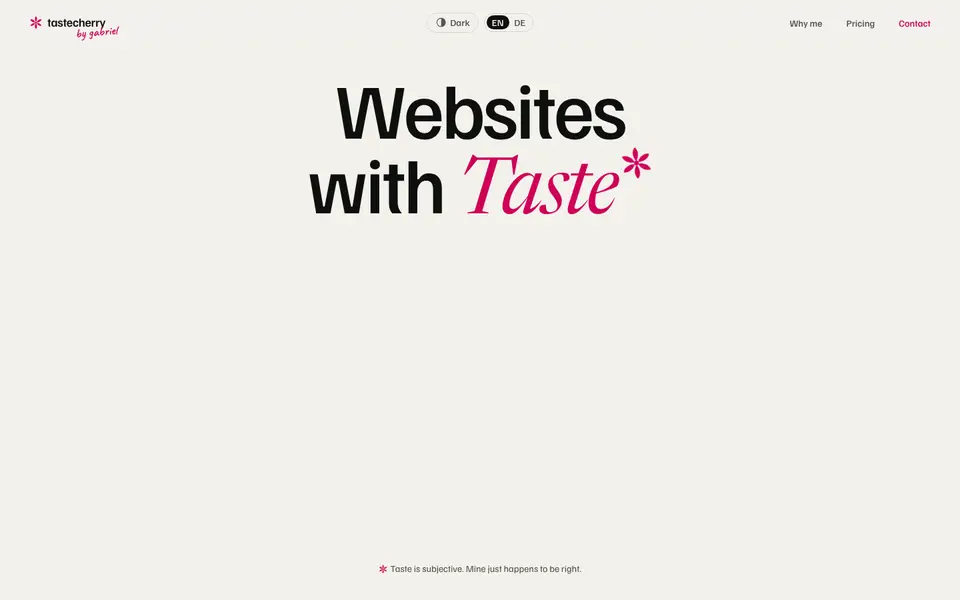
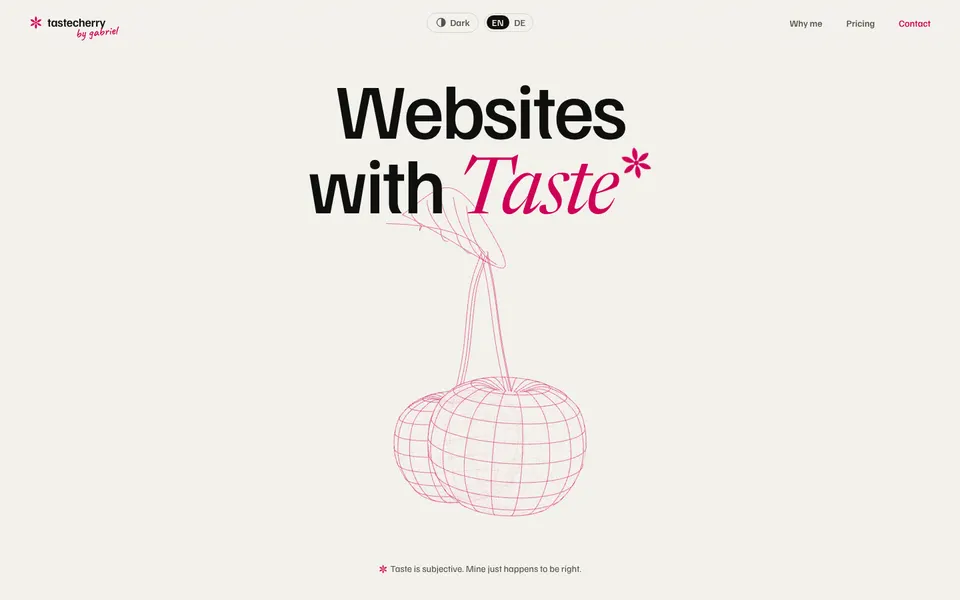
Landing page: screenshots inside the project rows, smooth scrolling
- Each project row holds its screenshot: grey and dimmed at rest, the
  colour wipes in with the blue row on hover (replaces the cursor preview)
- Names scale with their own column, so they never run into the screenshot
- Stacked layout on tablets, single column on phones
- Header links and "Things I built" scroll smoothly (off with reduced motion)
- New tastecherry and Chess Companion screenshots with their 3D scenes

Claude-Session: https://claude.ai/code/session_01FqocVGTXWJxat8kcUEaMd8

Changed region(s): [[0.4062, 0.42, 0.625, 0.87], [0.4062, 0.33, 0.5, 0.42], [0.6562, 0.24, 0.6875, 0.3]]

diff --git a/index.html b/index.html
@@ -44,7 +44,7 @@
   }
   * { box-sizing: border-box; }
   [hidden] { display: none !important; }
-  html { -webkit-text-size-adjust: 100%; }
+  html { -webkit-text-size-adjust: 100%; scroll-behavior: smooth; }
   body {
     margin: 0;
     min-height: 100vh;
@@ -182,7 +182,7 @@
     color: var(--muted); background: none; border: 0; cursor: pointer; text-decoration: underline;
   }
 
-  @media (prefers-reduced-motion: reduce) { * { transition: none !important; animation: none !important; } }
+  @media (prefers-reduced-motion: reduce) { html { scroll-behavior: auto; } * { transition: none !important; animation: none !important; } }
   /* ---------- below the hero ---------- */
   body { background: #000; }
   .below {
@@ -225,20 +225,32 @@
   /* ---------- projects and elsewhere: index rows ---------- */
   .ix-row {
     position: relative; z-index: 1; isolation: isolate; overflow: hidden;
-    display: grid; grid-template-columns: minmax(0, 1fr) minmax(0, 30ch) 14ch 32px; align-items: center; gap: 32px;
-    padding: 26px var(--pad); border-bottom: 1px solid var(--line);
+    display: grid; align-items: center; gap: 0 28px;
+    grid-template-columns: minmax(0, 1fr) clamp(170px, 16vw, 250px) minmax(0, 24ch) 12ch 28px;
+    grid-template-areas: "name thumb desc type arrow";
+    padding: 24px var(--pad); border-bottom: 1px solid var(--line);
     color: var(--ink); text-decoration: none; transition: color .35s .05s;
   }
   .ix-row::before {
     content: ""; position: absolute; inset: 0; z-index: -1; background: var(--blue);
     clip-path: inset(0 100% 0 0); transition: clip-path .6s cubic-bezier(.7, 0, .2, 1);
   }
-  .ix-name { font-weight: 900; font-stretch: 62%; text-transform: uppercase; font-size: clamp(48px, 9vw, 140px); line-height: .82; letter-spacing: -.01em; }
-  .ix-desc { font-size: 15px; line-height: 1.45; color: var(--dim); transition: color .35s .05s; }
-  .ix-type { font-weight: 600; font-size: 12px; letter-spacing: .08em; text-transform: uppercase; color: #6d6d6d; text-align: right; transition: color .35s .05s; }
-  .ix-arrow { font-size: 28px; line-height: 1; text-align: right; transition: transform .4s cubic-bezier(.2, .7, .1, 1); }
+  /* the name scales with its own column (cqi), so it never runs into the screenshot */
+  .ix-name { grid-area: name; container-type: inline-size; font-weight: 900; font-stretch: 62%; text-transform: uppercase; line-height: .82; letter-spacing: -.01em; }
+  .ix-name span { display: block; font-size: min(120px, 7.2vw, 17.5cqi); }
+  .ix-desc { grid-area: desc; font-size: 15px; line-height: 1.45; color: var(--dim); transition: color .35s .05s; }
+  .ix-type { grid-area: type; font-weight: 600; font-size: 12px; letter-spacing: .08em; text-transform: uppercase; color: #6d6d6d; text-align: right; transition: color .35s .05s; }
+  .ix-arrow { grid-area: arrow; font-size: 28px; line-height: 1; text-align: right; transition: transform .4s cubic-bezier(.2, .7, .1, 1); }
   .ix-row.out .ix-name { color: transparent; -webkit-text-stroke: 1.5px var(--ink); transition: -webkit-text-stroke-color .35s .05s; }
-  .ix-thumb { display: none; }
+
+  /* screenshot: grey and dimmed until hovered, then the colour wipes in with the row */
+  .ix-thumb { grid-area: thumb; position: relative; display: block; aspect-ratio: 16 / 10; overflow: hidden; border: 1px solid #262626; transition: border-color .35s .05s; }
+  .ix-thumb img { width: 100%; height: 100%; object-fit: cover; object-position: top; display: block; transition: transform .9s cubic-bezier(.2, .7, .1, 1); }
+  .ix-thumb::after {
+    content: ""; position: absolute; inset: 0; background: rgba(0, 0, 0, .45);
+    -webkit-backdrop-filter: grayscale(1); backdrop-filter: grayscale(1);
+    clip-path: inset(0 0 0 0); transition: clip-path .6s cubic-bezier(.7, 0, .2, 1);
+  }
 
   @media (hover: hover) {
     .ix-row:hover { color: #000; }
@@ -246,25 +258,29 @@
     .ix-row:hover .ix-desc, .ix-row:hover .ix-type { color: rgba(0, 0, 0, .75); }
     .ix-row:hover .ix-arrow { transform: translateX(8px); }
     .ix-row.out:hover .ix-name { -webkit-text-stroke-color: #000; }
+    .ix-row:hover .ix-thumb { border-color: #000; }
+    .ix-row:hover .ix-thumb::after { clip-path: inset(0 0 0 100%); }
+    .ix-row:hover .ix-thumb img { transform: scale(1.05); }
   }
 
-  /* preview that follows the cursor */
-  .ix-float {
-    position: fixed; left: 0; top: 0; z-index: 30; pointer-events: none;
-    width: clamp(260px, 26vw, 420px); aspect-ratio: 16 / 10; overflow: hidden;
-    border: 1px solid rgba(0, 0, 0, .9); box-shadow: 0 30px 80px -20px rgba(0, 0, 0, .8);
-    opacity: 0; transition: opacity .25s;
-  }
-  .ix-float.show { opacity: 1; }
-  .ix-float img { width: 100%; height: 100%; object-fit: cover; object-position: top; display: block; }
-
-  @media (max-width: 720px) {
-    .ix-row { grid-template-columns: 1fr; gap: 10px; padding: 22px var(--pad); }
-    .ix-name { font-size: 14vw; }
-    .ix-type { order: -1; text-align: left; }
+  /* tablets: type, name and description stacked beside the screenshot */
+  @media (max-width: 1000px) {
+    .ix-row {
+      grid-template-columns: minmax(0, 1fr) clamp(170px, 30vw, 260px);
+      grid-template-areas: "type thumb" "name thumb" "desc thumb";
+      gap: 10px 24px; align-items: start;
+    }
+    .ix-type { text-align: left; }
+    .ix-name span { font-size: min(12vw, 17.5cqi); }
     .ix-arrow { display: none; }
-    .ix-thumb { display: block; grid-column: 1 / -1; aspect-ratio: 16 / 10; overflow: hidden; border: 1px solid var(--line); }
-    .ix-thumb img { width: 100%; height: 100%; object-fit: cover; object-position: top; display: block; }
+    .ix-thumb { align-self: center; }
+  }
+
+  /* phones: everything in one column, screenshot in colour */
+  @media (max-width: 600px) {
+    .ix-row { grid-template-columns: 1fr; grid-template-areas: "type" "name" "desc" "thumb"; padding: 22px var(--pad); }
+    .ix-name span { font-size: min(14vw, 17.5cqi); }
+    .ix-thumb::after { display: none; }
   }
 </style>
 </head>
@@ -288,29 +304,29 @@
 
 <div class="below">
   <section id="projects"><div class="sec-head"><span>Projects</span></div>
-    <a class="ix-row" href="/tastecherry/" data-img="img/projects/tastecherry.webp">
-      <span class="ix-name">tastecherry</span>
+    <a class="ix-row" href="/tastecherry/">
+      <span class="ix-name"><span>tastecherry</span></span>
       <span class="ix-desc">Websites with taste, at fixed prices. AI builds it, I make it good.</span>
       <span class="ix-type">Web studio</span>
       <span class="ix-arrow" aria-hidden="true">→</span>
       <span class="ix-thumb"><img src="img/projects/tastecherry.webp" alt="" loading="lazy"></span>
     </a>
-    <a class="ix-row" href="/deepstem/" data-img="img/projects/deepstem.webp">
-      <span class="ix-name">DeepStem</span>
+    <a class="ix-row" href="/deepstem/">
+      <span class="ix-name"><span>DeepStem</span></span>
       <span class="ix-desc">Splits any song into vocals, drums, bass and more, right inside your DAW.</span>
       <span class="ix-type">VST3 plug-in</span>
       <span class="ix-arrow" aria-hidden="true">→</span>
       <span class="ix-thumb"><img src="img/projects/deepstem.webp" alt="" loading="lazy"></span>
     </a>
-    <a class="ix-row" href="/chess/" data-img="img/projects/chess.webp">
-      <span class="ix-name">Chess Companion</span>
+    <a class="ix-row" href="/chess/">
+      <span class="ix-name"><span>Chess Companion</span></span>
       <span class="ix-desc">Analyse your games, solve rated puzzles, train coordinates and learn openings.</span>
       <span class="ix-type">Web app</span>
       <span class="ix-arrow" aria-hidden="true">→</span>
       <span class="ix-thumb"><img src="img/projects/chess.webp" alt="" loading="lazy"></span>
     </a>
-    <a class="ix-row" href="/minecrawler/" data-img="img/projects/minecrawler.webp">
-      <span class="ix-name">Minecrawler</span>
+    <a class="ix-row" href="/minecrawler/">
+      <span class="ix-name"><span>Minecrawler</span></span>
       <span class="ix-desc">A roguelike Minesweeper: ten floors of mines, items and relics in a Windows 95 window.</span>
       <span class="ix-type">Browser game</span>
       <span class="ix-arrow" aria-hidden="true">→</span>
@@ -319,19 +335,19 @@
   </section>
   <section id="elsewhere"><div class="sec-head"><span>Elsewhere</span></div>
     <a class="ix-row out" href="https://makerworld.com/en/@gjoerk" target="_blank" rel="noopener">
-      <span class="ix-name">MakerWorld</span>
+      <span class="ix-name"><span>MakerWorld</span></span>
       <span class="ix-desc">@gjoerk</span>
       <span class="ix-type">3D prints</span>
       <span class="ix-arrow" aria-hidden="true">↗</span>
     </a>
     <a class="ix-row out" href="https://soundcloud.com/swrz" target="_blank" rel="noopener">
-      <span class="ix-name">SoundCloud</span>
+      <span class="ix-name"><span>SoundCloud</span></span>
       <span class="ix-desc">@swrz</span>
       <span class="ix-type">Music</span>
       <span class="ix-arrow" aria-hidden="true">↗</span>
     </a>
   </section>
-  <div class="ix-float" aria-hidden="true"><img alt=""></div>
+
 
   <section id="secret" aria-labelledby="secret-h">
     <div class="sec-head"><span>Secret</span></div>
@@ -468,32 +484,6 @@
   const clock = document.getElementById('clock');
   const tick = () => clock.textContent = new Date().toLocaleTimeString([], { hour12: false });
   tick(); setInterval(tick, 1000);
-})();
-</script>
-<script>
-// Projects: a preview of the hovered project follows the cursor
-(function () {
-  const fl = document.querySelector('.ix-float'), im = fl.querySelector('img');
-  let x = 0, y = 0, tx = 0, ty = 0, on = false;
-  document.querySelectorAll('.ix-row[data-img]').forEach(r => {
-    new Image().src = r.dataset.img;   // preload, so the first hover is not empty
-    r.addEventListener('pointerenter', e => {
-      if (e.pointerType !== 'mouse') return;
-      im.src = r.dataset.img; fl.classList.add('show');
-      if (!on) { x = tx; y = ty; on = true; }
-    });
-    r.addEventListener('pointerleave', () => { fl.classList.remove('show'); on = false; });
-  });
-  addEventListener('pointermove', e => {
-    const w = fl.offsetWidth, h = fl.offsetHeight;
-    tx = e.clientX + 28 + w > innerWidth ? e.clientX - 28 - w : e.clientX + 28;
-    ty = Math.min(Math.max(e.clientY - h / 2, 12), innerHeight - h - 12);
-  });
-  (function loop() {
-    x += (tx - x) * .16; y += (ty - y) * .16;
-    fl.style.transform = `translate(${x}px, ${y}px)`;
-    requestAnimationFrame(loop);
-  })();
 })();
 </script>
 </body>
